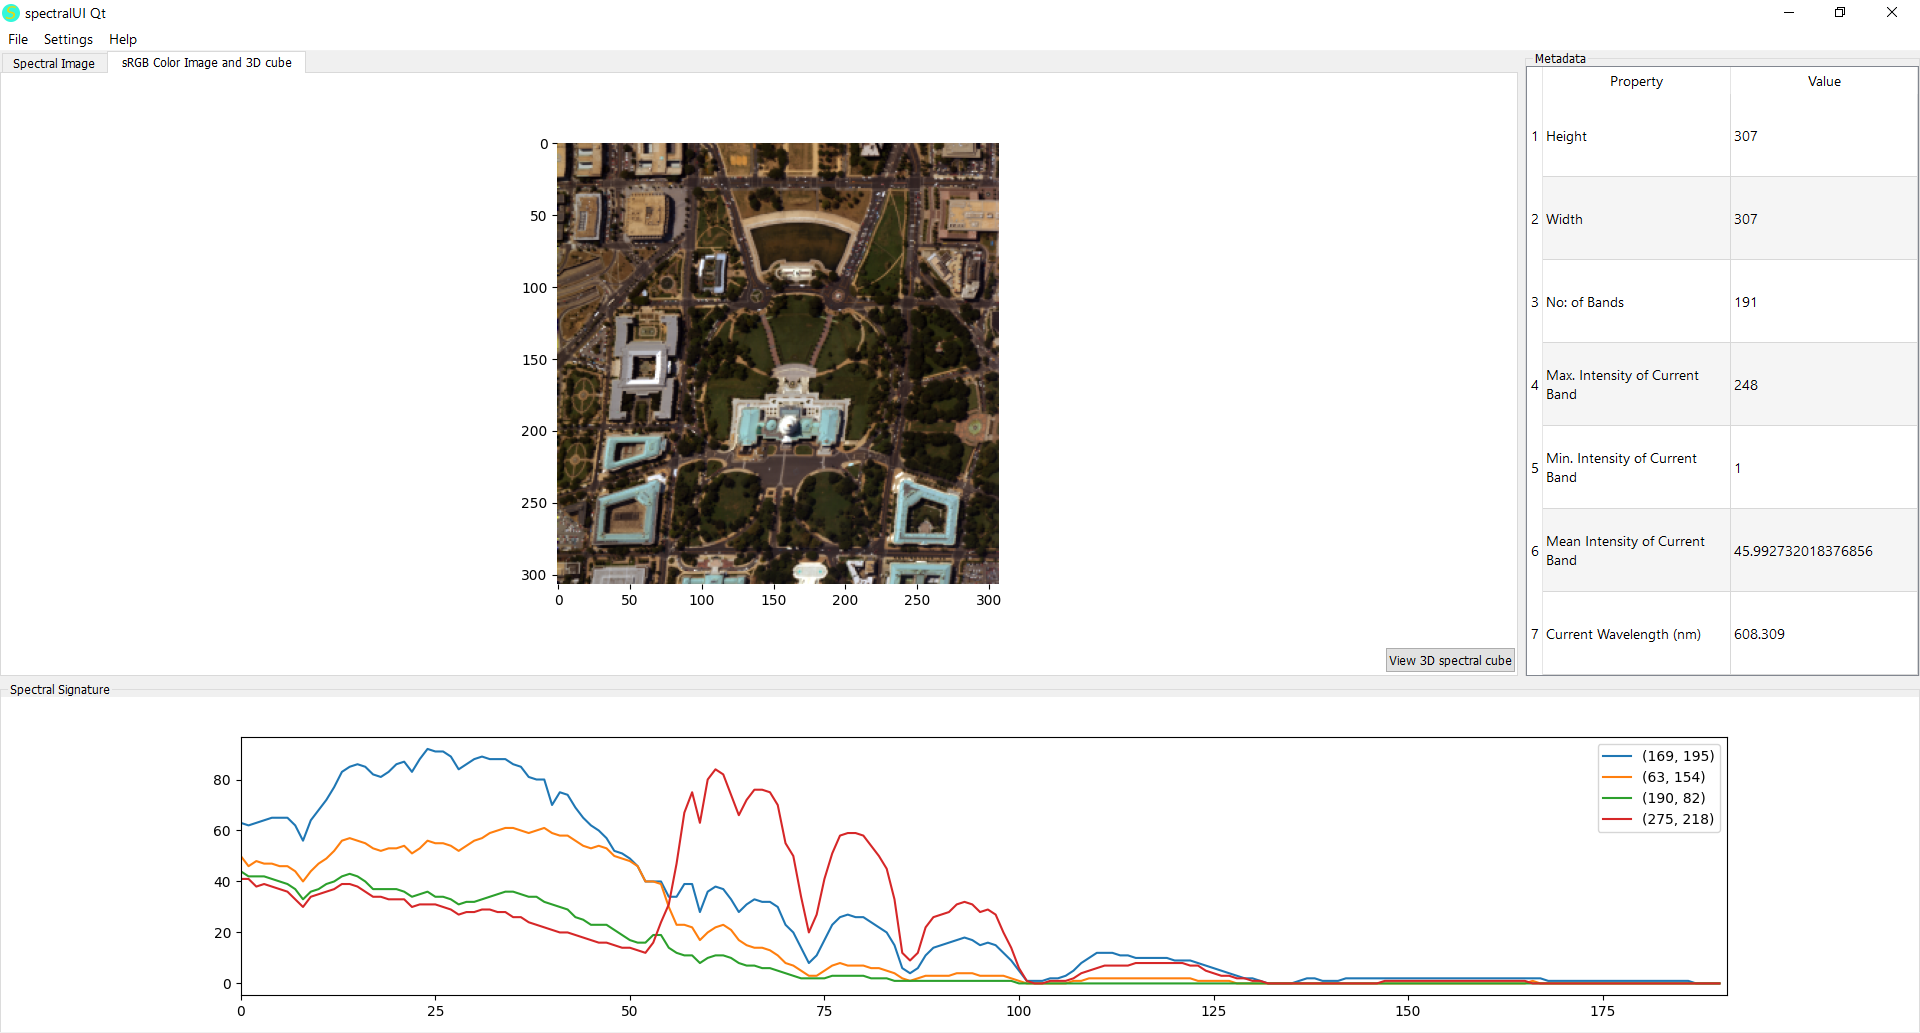
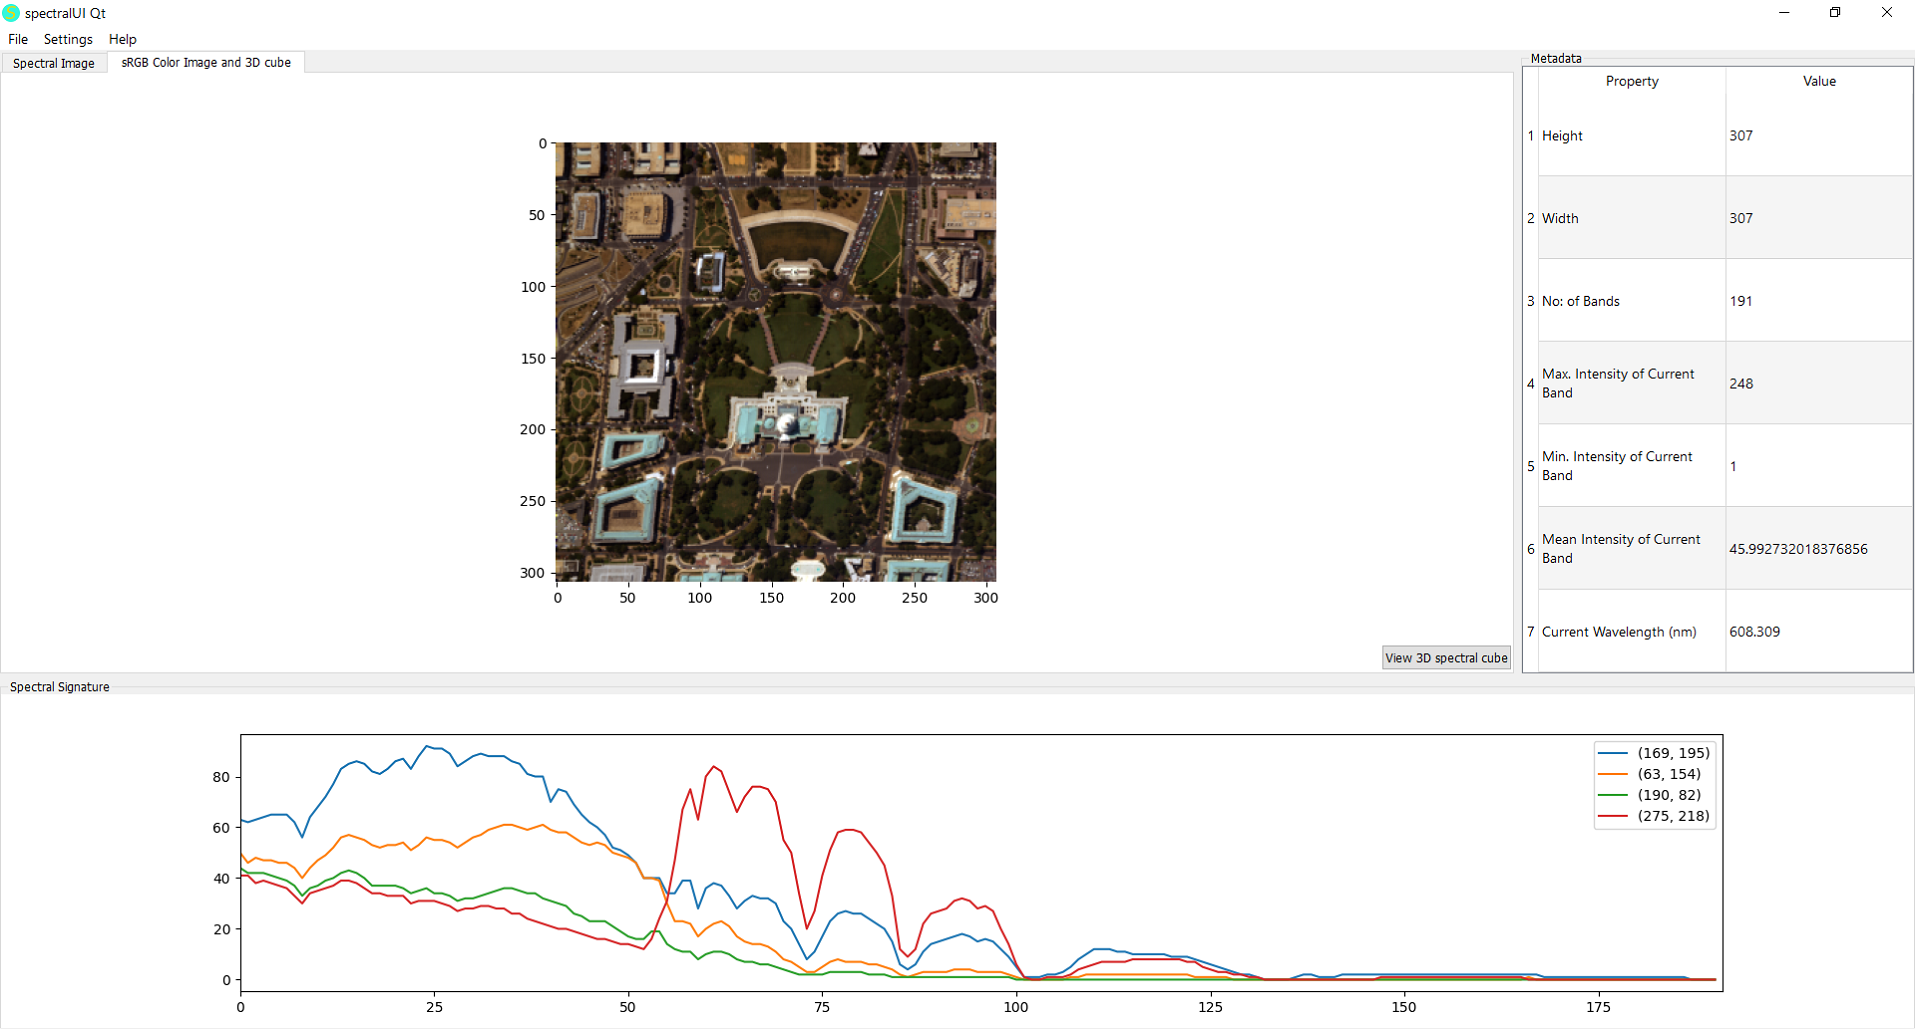
Updated screenshots and readme

diff --git a/README.md b/README.md
@@ -1,15 +1,37 @@
-# spectralUI Prototype
+# spectralUI Prototype <img src="./resources/icons/application_icon.png" width="24">
 spectralUI is an open source cross platform, general purpose tool for analyzing multispectral and hyperspectral images. **This repository contains only the prototype version**. For stable version, visit [spectralUI](https://www.github.com/TomAmpiath/spectralUI)
 
 ## Screenshots
-#### Main Screen
-<img src="./screenshots/screenshot_main_screen.PNG" width=100%>
+<style>
+#screenshot {
+    width: 100%;
+    border: 2px solid #000;
+}
 
-#### Color Image
-<img src="./screenshots/screenshot_color_image.PNG" width=100%>
+#screenshot_div {
+    width: 30%;
+    float: left;
+    margin: 1%;
+}
+</style>
 
-#### 3D Cube
-<img src="./screenshots/screenshot_cube.PNG" width=100%>
+<div id="screenshot_div">
+<h4>Main Screen</h4>
+<img id="screenshot" src="./screenshots/screenshot_main_screen.PNG"/>
+</div>
+
+<div id="screenshot_div">
+<h4>Color Image</h4>
+<img id="screenshot" src="./screenshots/screenshot_color_image.PNG"/>
+</div>
+
+<div id="screenshot_div">
+<h4>3D Cube</h4>
+<img id="screenshot" src="./screenshots/screenshot_cube.PNG"/>
+</div>
+
+<div style="clear: both">
+</div>
 
 ## Requirements
 
